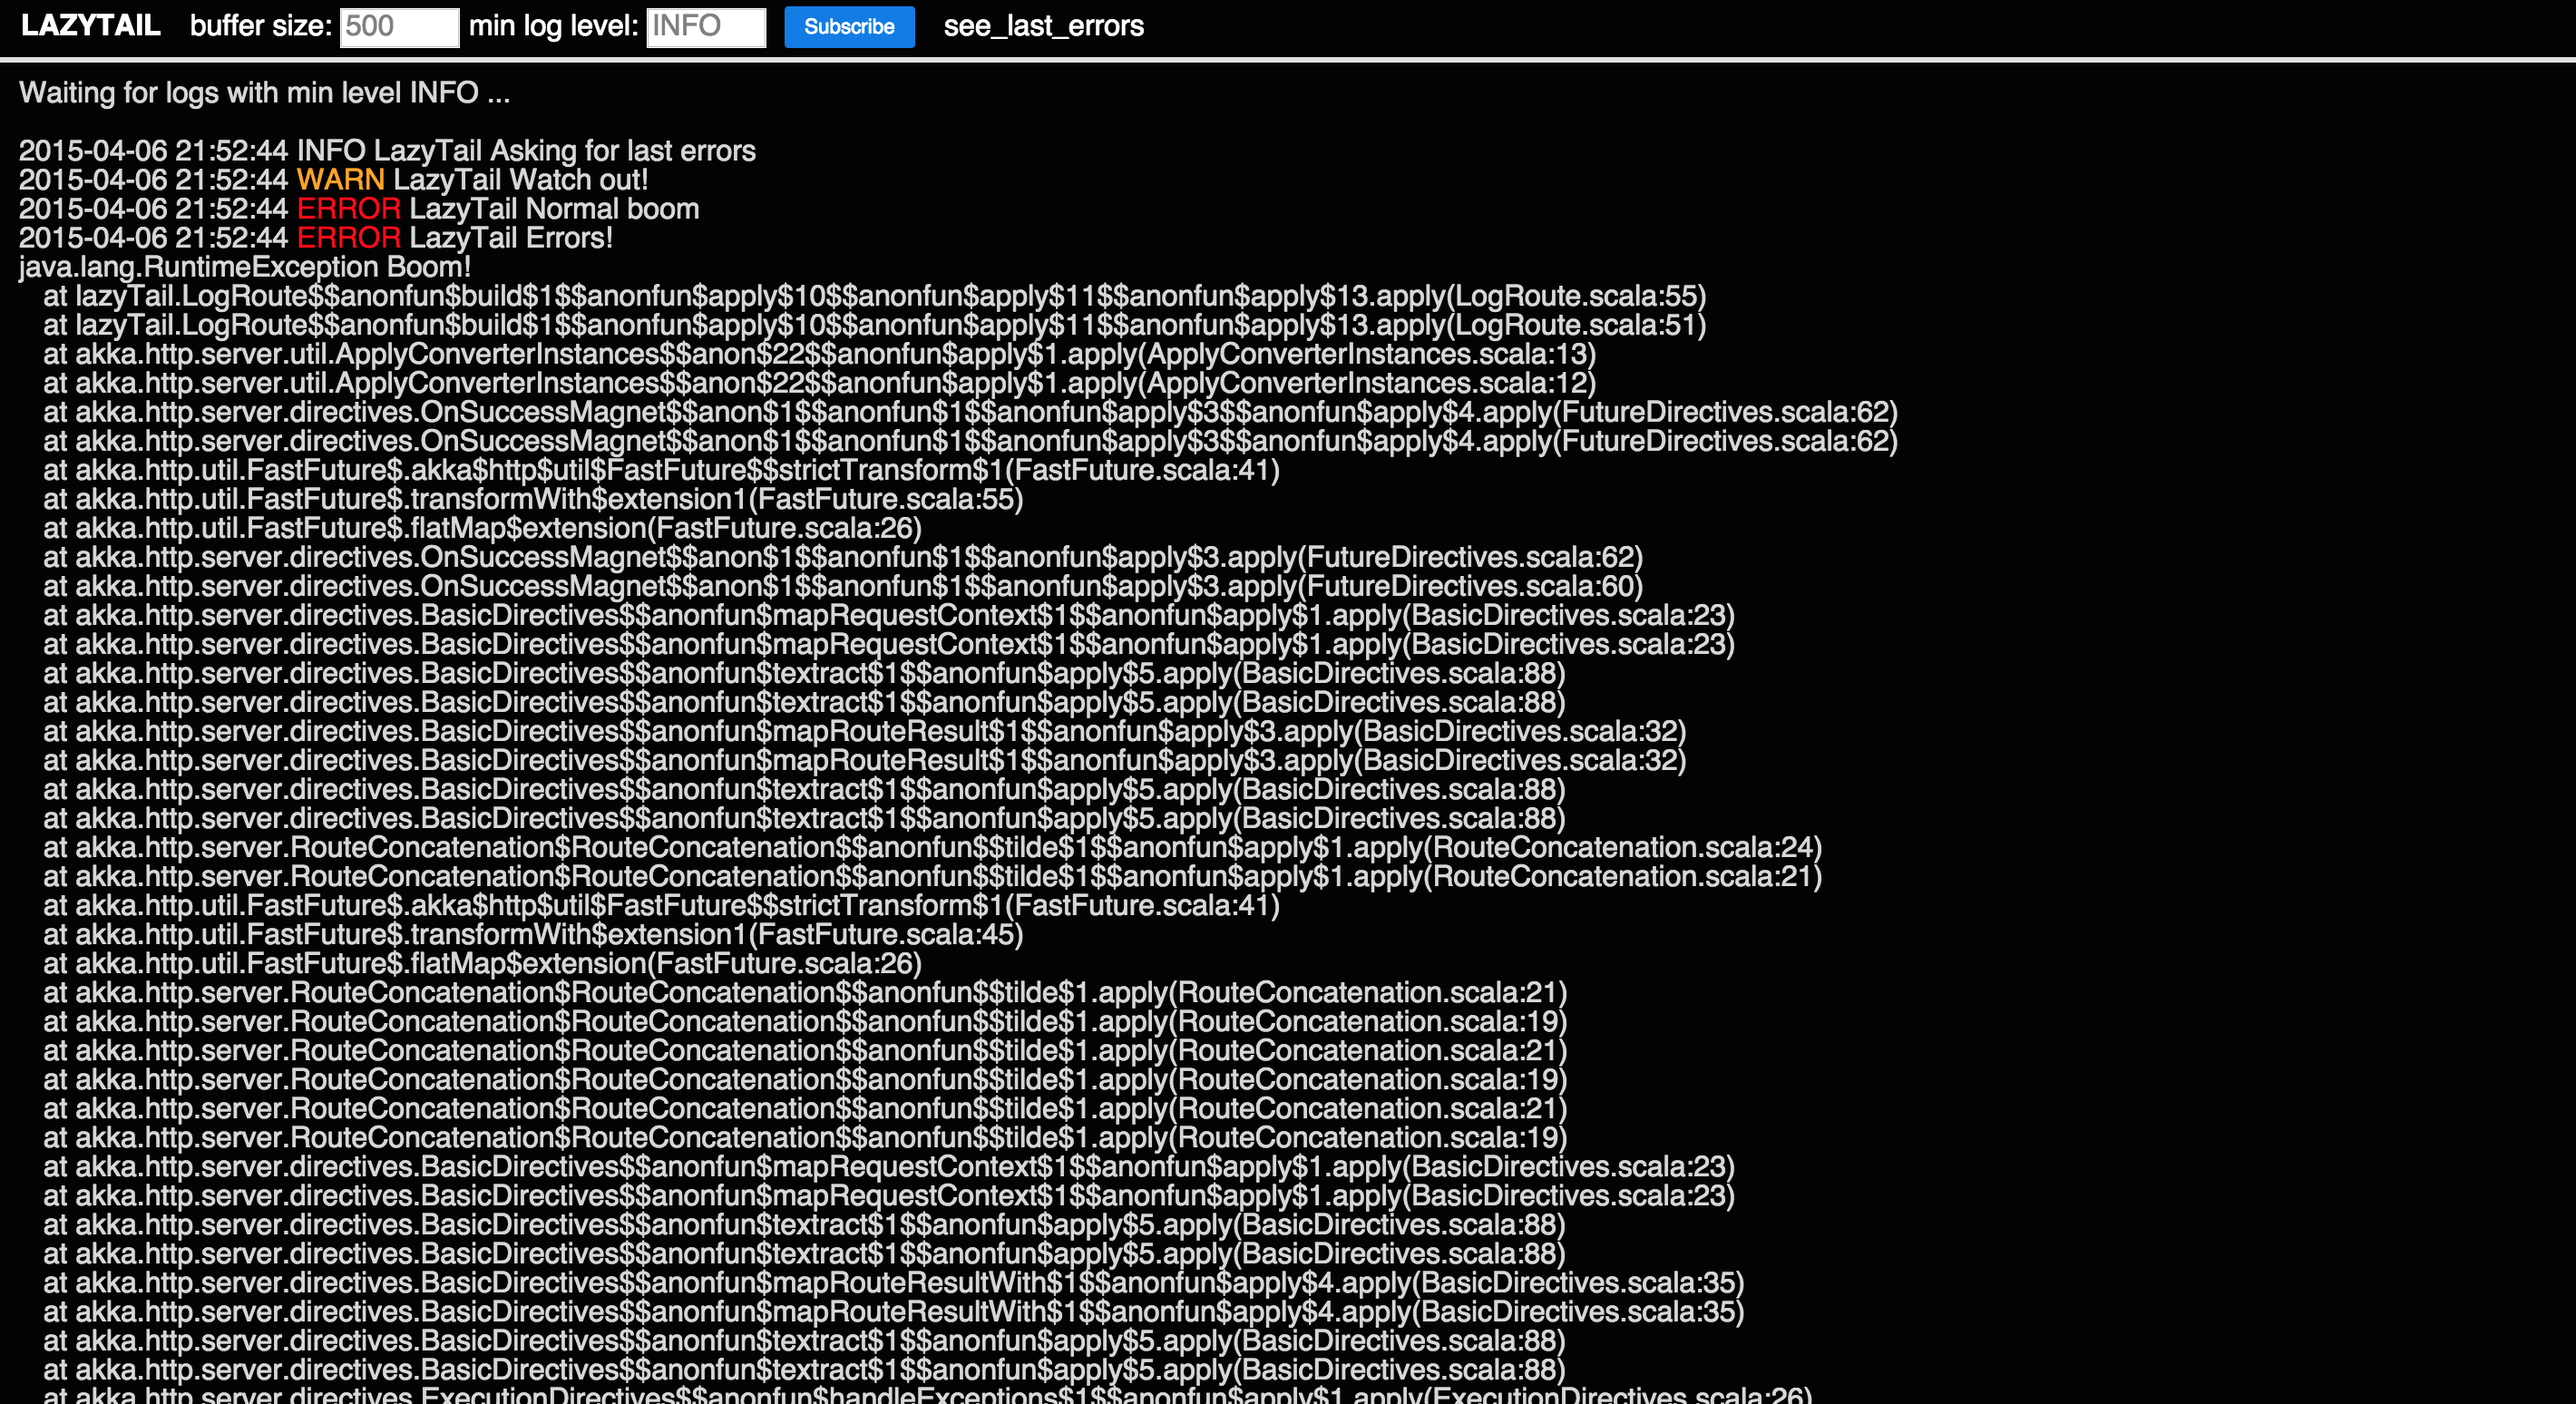
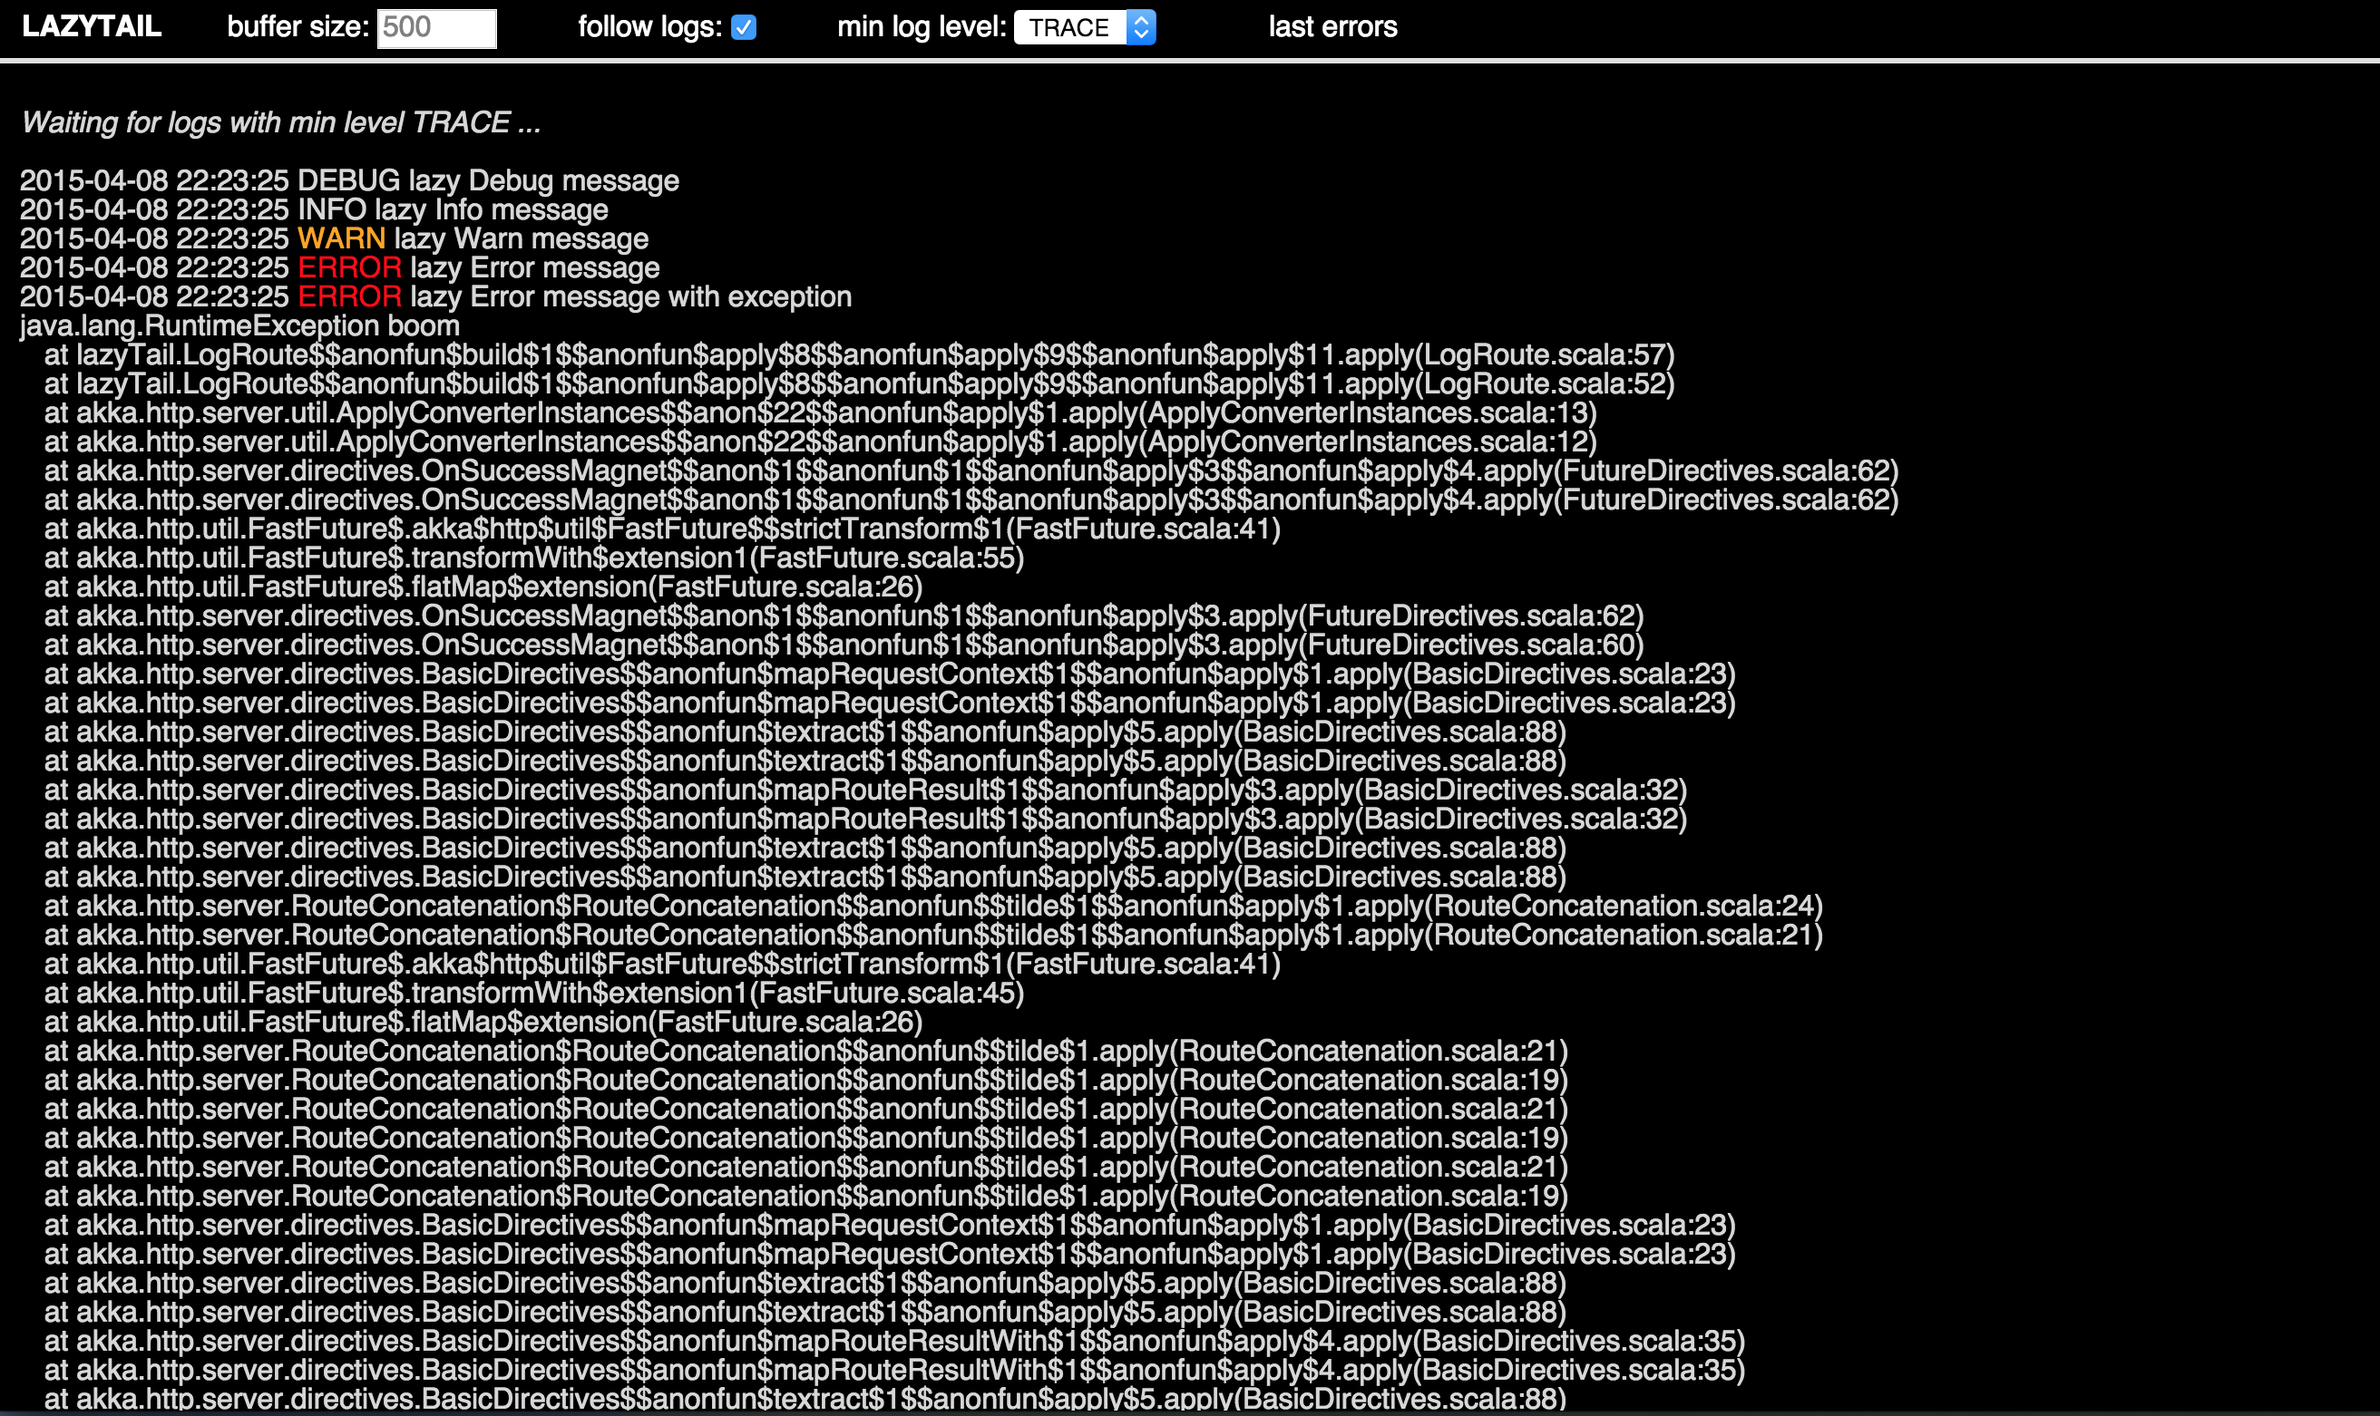
frontend work and cleanup

diff --git a/src/main/resources/frontend/js/logs.js b/src/main/resources/frontend/js/logs.js
@@ -21,8 +21,15 @@ logs.vm = {
         logs.vm.stream = function(){
             streamOfLogs(logs.vm.minLogLevel());
         };
-        this.minLogLevel = m.prop('INFO');
-        this.followLogs = m.prop(false);
+        this.minLogLevel = m.prop('TRACE');
+        this.logLevelOptions = m.prop([
+            { value: 'TRACE', text: 'TRACE' },
+            { value: 'DEBUG', text: 'DEBUG' },
+            { value: 'INFO', text: 'INFO' },
+            { value: 'WARN', text: 'WARN' },
+            { value: 'ERROR', text: 'ERROR' }
+        ]);
+        this.followLogs = m.prop(true);
         this.bufferSize = m.prop(500);
         this.sseSource = m.prop(null);
         logs.vm.getLastErrors = function(){
@@ -48,7 +55,7 @@ function streamOfLogs(minLevel) {
     }, false);
 
     source.addEventListener('open', function(e) {
-        logs.vm.add("<i>Waiting for logs with min level " + minLevel + " ... </i></br></br>");
+        logs.vm.add("</br><i>Waiting for logs with min level " + minLevel + " ... </i></br></br>");
          m.render(document.body, logs.view());
     }, false);
 
@@ -77,11 +84,19 @@ var menu = function() {
                     m("label","follow logs: "),
                     m("input[type=checkbox]", {onclick: m.withAttr("checked", logs.vm.followLogs), checked: logs.vm.followLogs()}),
                     m("label","min log level: "),
-                    m("input[type=text]" , {onchange: m.withAttr("value", logs.vm.minLogLevel), value: logs.vm.minLogLevel()}),
-                    m("button.button-xsmall.pure-button-primary.pure-button", {onclick: logs.vm.stream}, "Subscribe")
+                    m("select", {
+                        onchange: function(){
+                            logs.vm.minLogLevel(this.value);
+                            logs.vm.stream();
+                        },
+                        value: logs.vm.minLogLevel }, [
+                        logs.vm.logLevelOptions().map(function(opt) {
+                            return m('option', {value: opt.value}, opt.text);
+                        })
+                    ])
                 ]),
                 m("li", {class: "pure-menu-item"}, [
-                    m("a[href='/logs/lastErrors']",{class: "pure-menu-link"}, "see_last_errors"),
+                    m("a[href='/logs/lastErrors']",{class: "pure-menu-link"}, "last errors"),
                 ])
             ])
         ])

diff --git a/src/main/resources/frontend/css/logs.css b/src/main/resources/frontend/css/logs.css
@@ -22,9 +22,9 @@ a{
     height: 35px;
 }
 
-.main-menu input{
+.main-menu input, .main-menu select{
     color: grey;
-    margin-right: 15px;
+    margin-right: 45px;
 }
 
 .main-menu input[type=text]{
@@ -34,6 +34,7 @@ a{
 .pure-menu-heading {
     color: white !important;
     font-weight: bold;
+    margin-right: 20px;
 }
 
 .pure-menu-item {

diff --git a/Readme.md b/Readme.md
@@ -9,7 +9,7 @@ Here comes lazy-tail - a library exposing the logs of any host application using
 
 ## APIs
 
-Let's start by creating a new instance of the ```LazyTail``` class, as an optional argument it takes the LoggerName you want to expose. (by default "ROOT")
+Let's start by creating an instance of the ```LazyTail``` class, as an optional argument it takes the LoggerName you want to expose. (by default "ROOT")
 
 3 alternatives are currently available:
 
@@ -33,6 +33,8 @@ def source(minLogLevel: LogLevel)(implicit system: ActorSystem): Future[Source[L
 ## Installation
 
 To be released soon...
+
+lazy-tail depends on akka-http 1.0-M5.
 
 ``` scala
 resolvers += "agourlay at bintray" at "http://dl.bintray.com/agourlay/maven"
